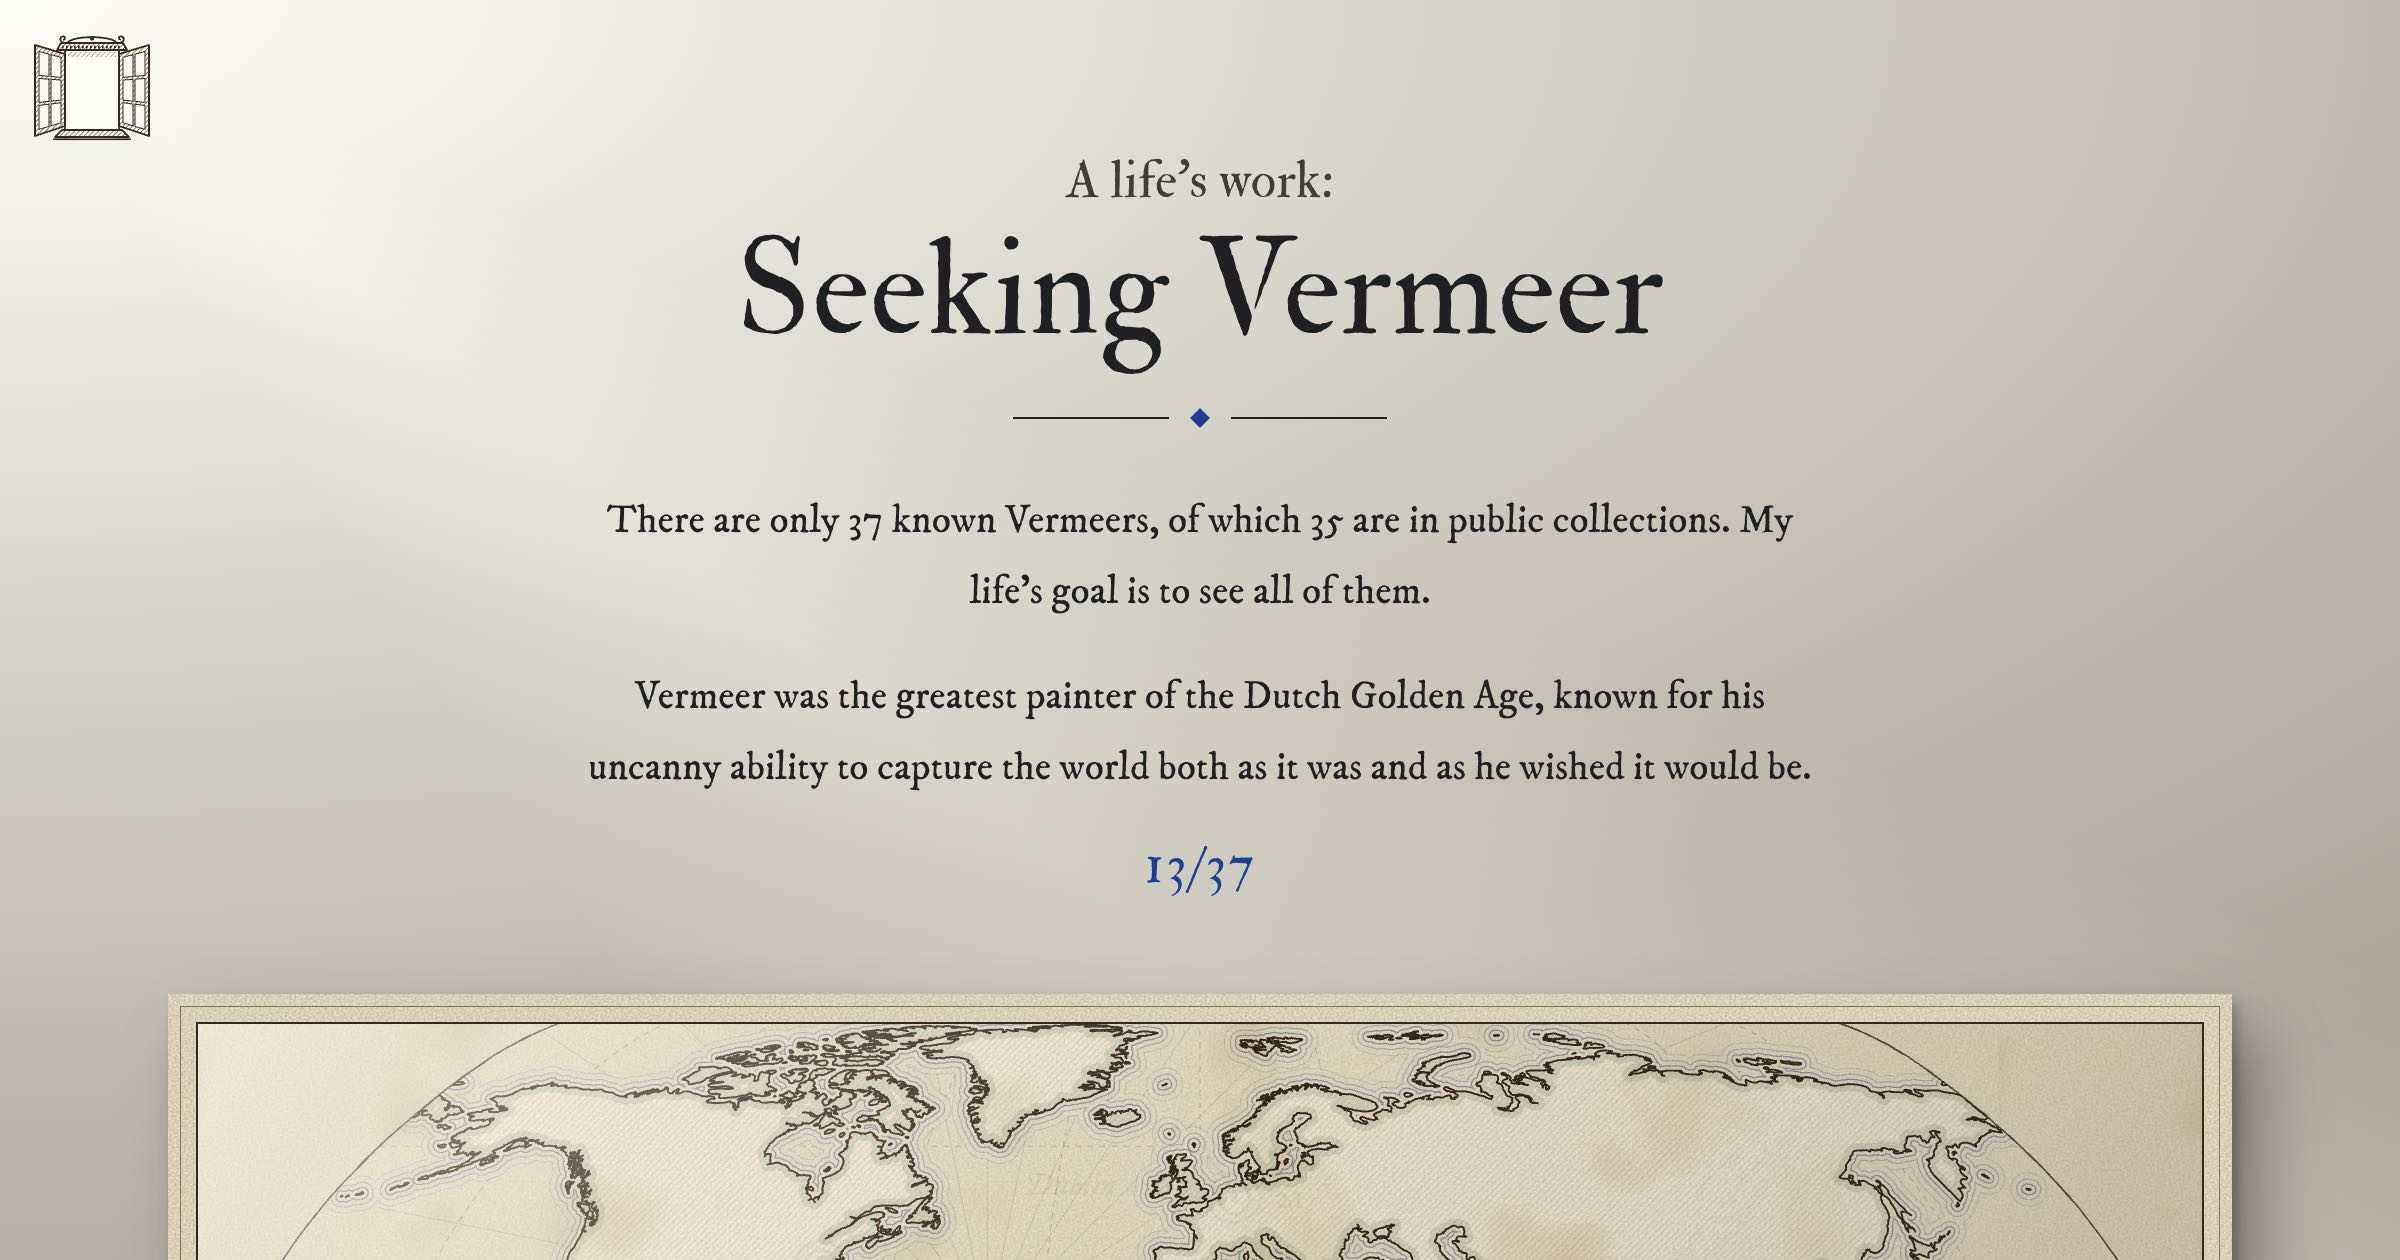
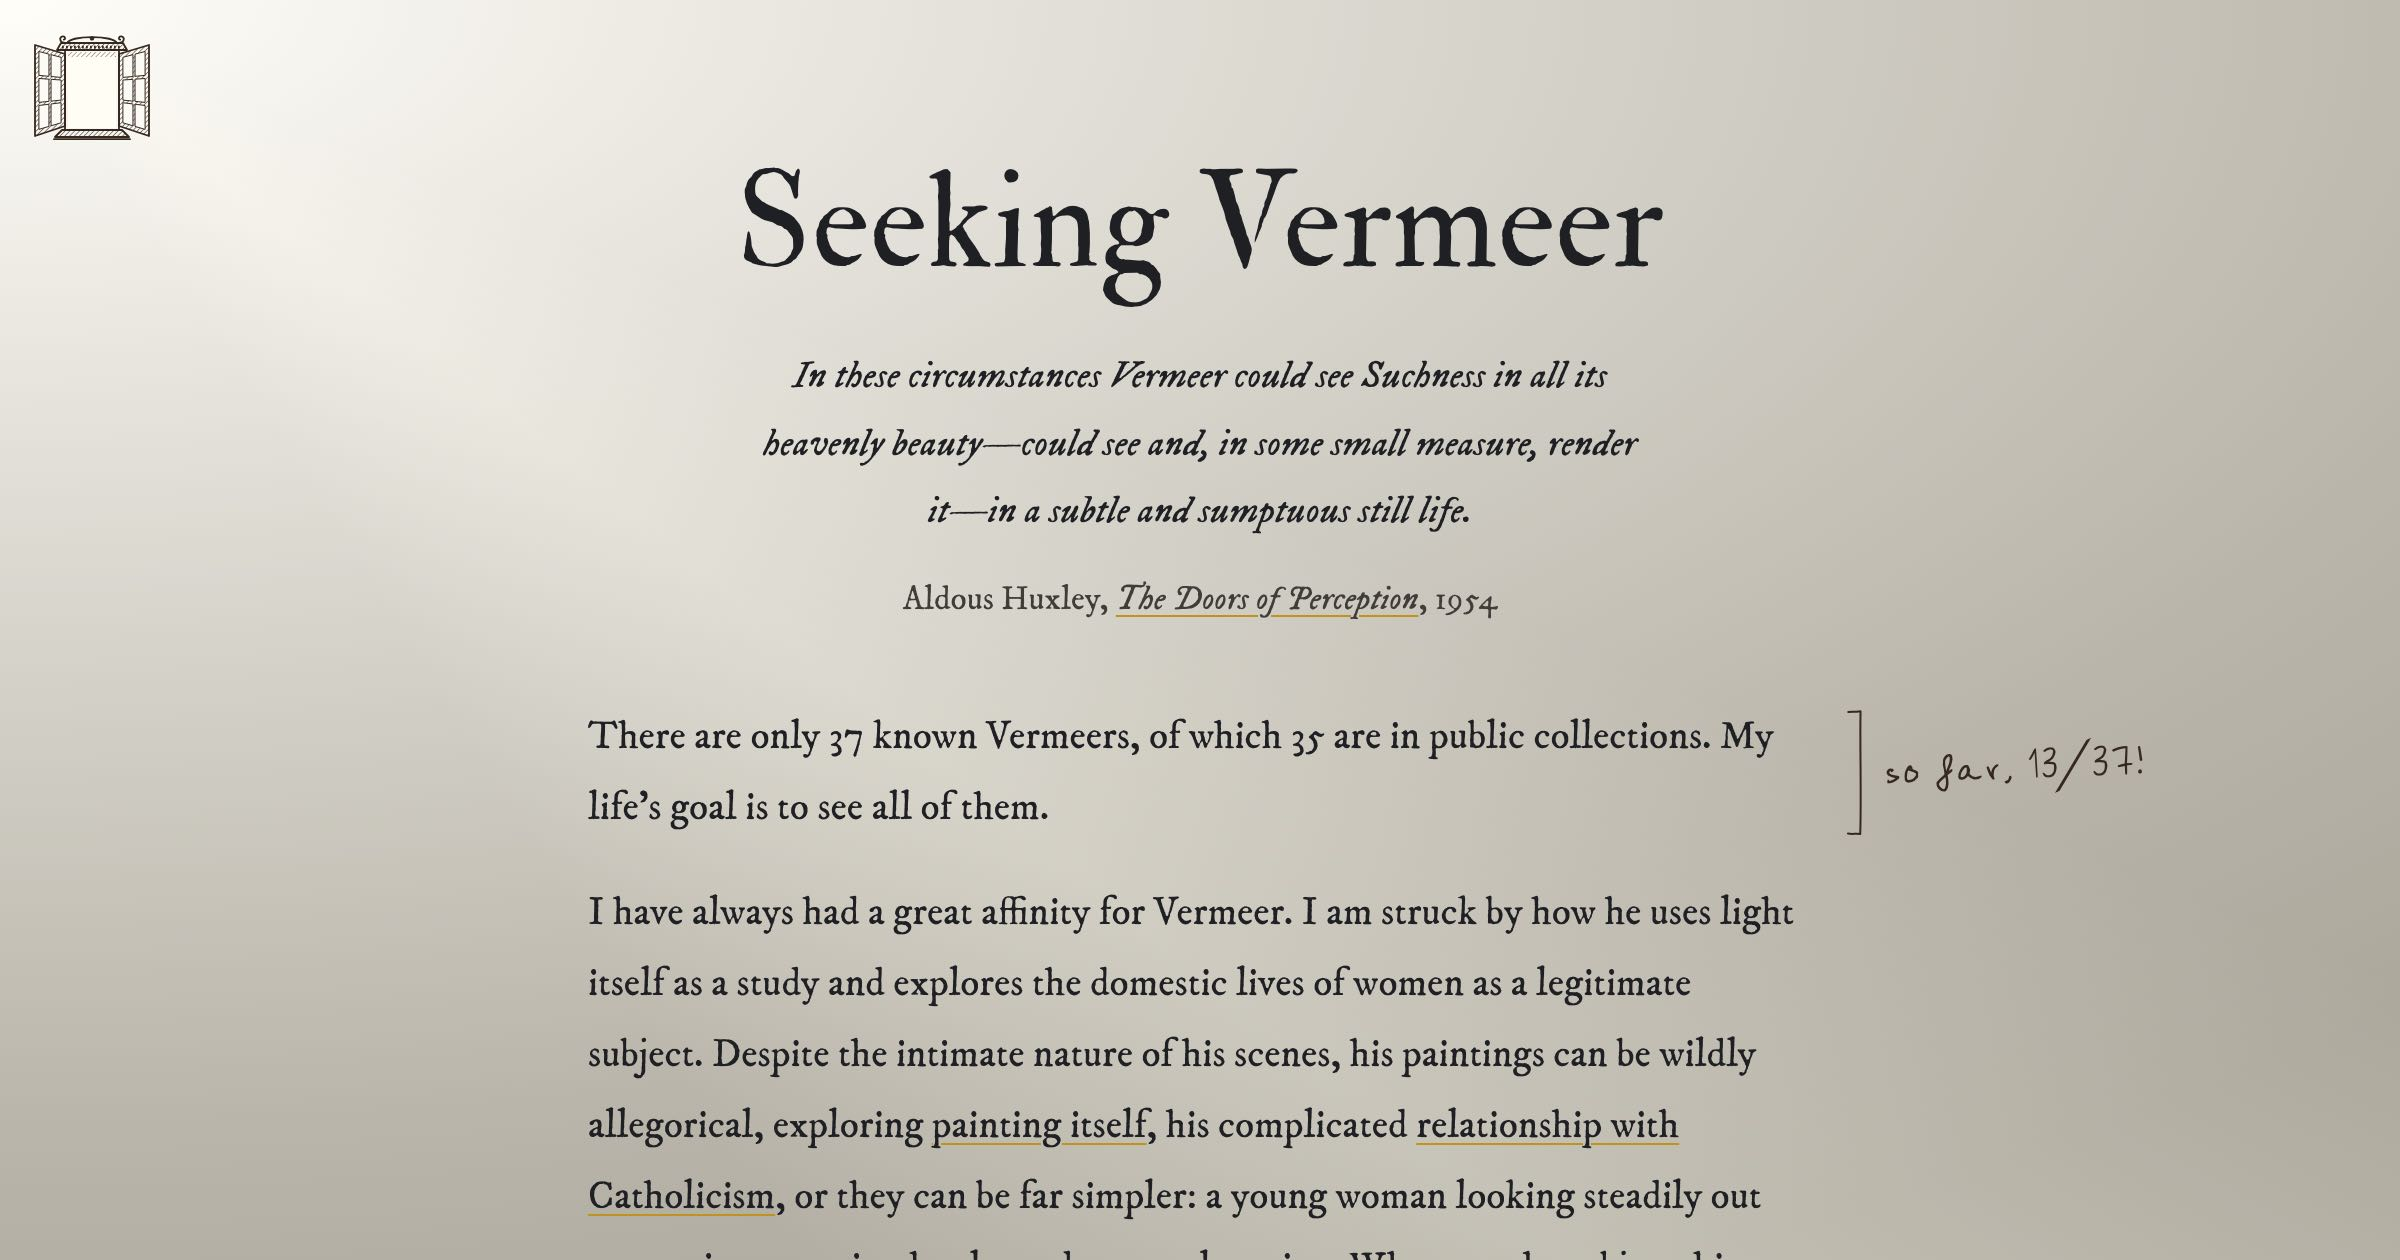
Retake the share card from the current title page
The old card still showed the kicker, ornament rule and centred intro.
The epigraph now pushes the map below the fold, so the alt text
describes the epigraph and margin tally instead.

diff --git a/index.html b/index.html
@@ -10,7 +10,7 @@
 <meta property="og:image" content="https://seekingvermeer.com/assets/img/og.jpg">
 <meta property="og:image:width" content="2400">
 <meta property="og:image:height" content="1260">
-<meta property="og:image:alt" content="The Seeking Vermeer title page above a hand-drawn map of the cities where his paintings hang.">
+<meta property="og:image:alt" content="The Seeking Vermeer title page: a Huxley epigraph on Vermeer, and the opening of the intro with the tally, 13/37, pencilled in the margin.">
 <meta property="og:url" content="https://seekingvermeer.com/">
 <meta property="og:type" content="website">
 <link rel="canonical" href="https://seekingvermeer.com/">
